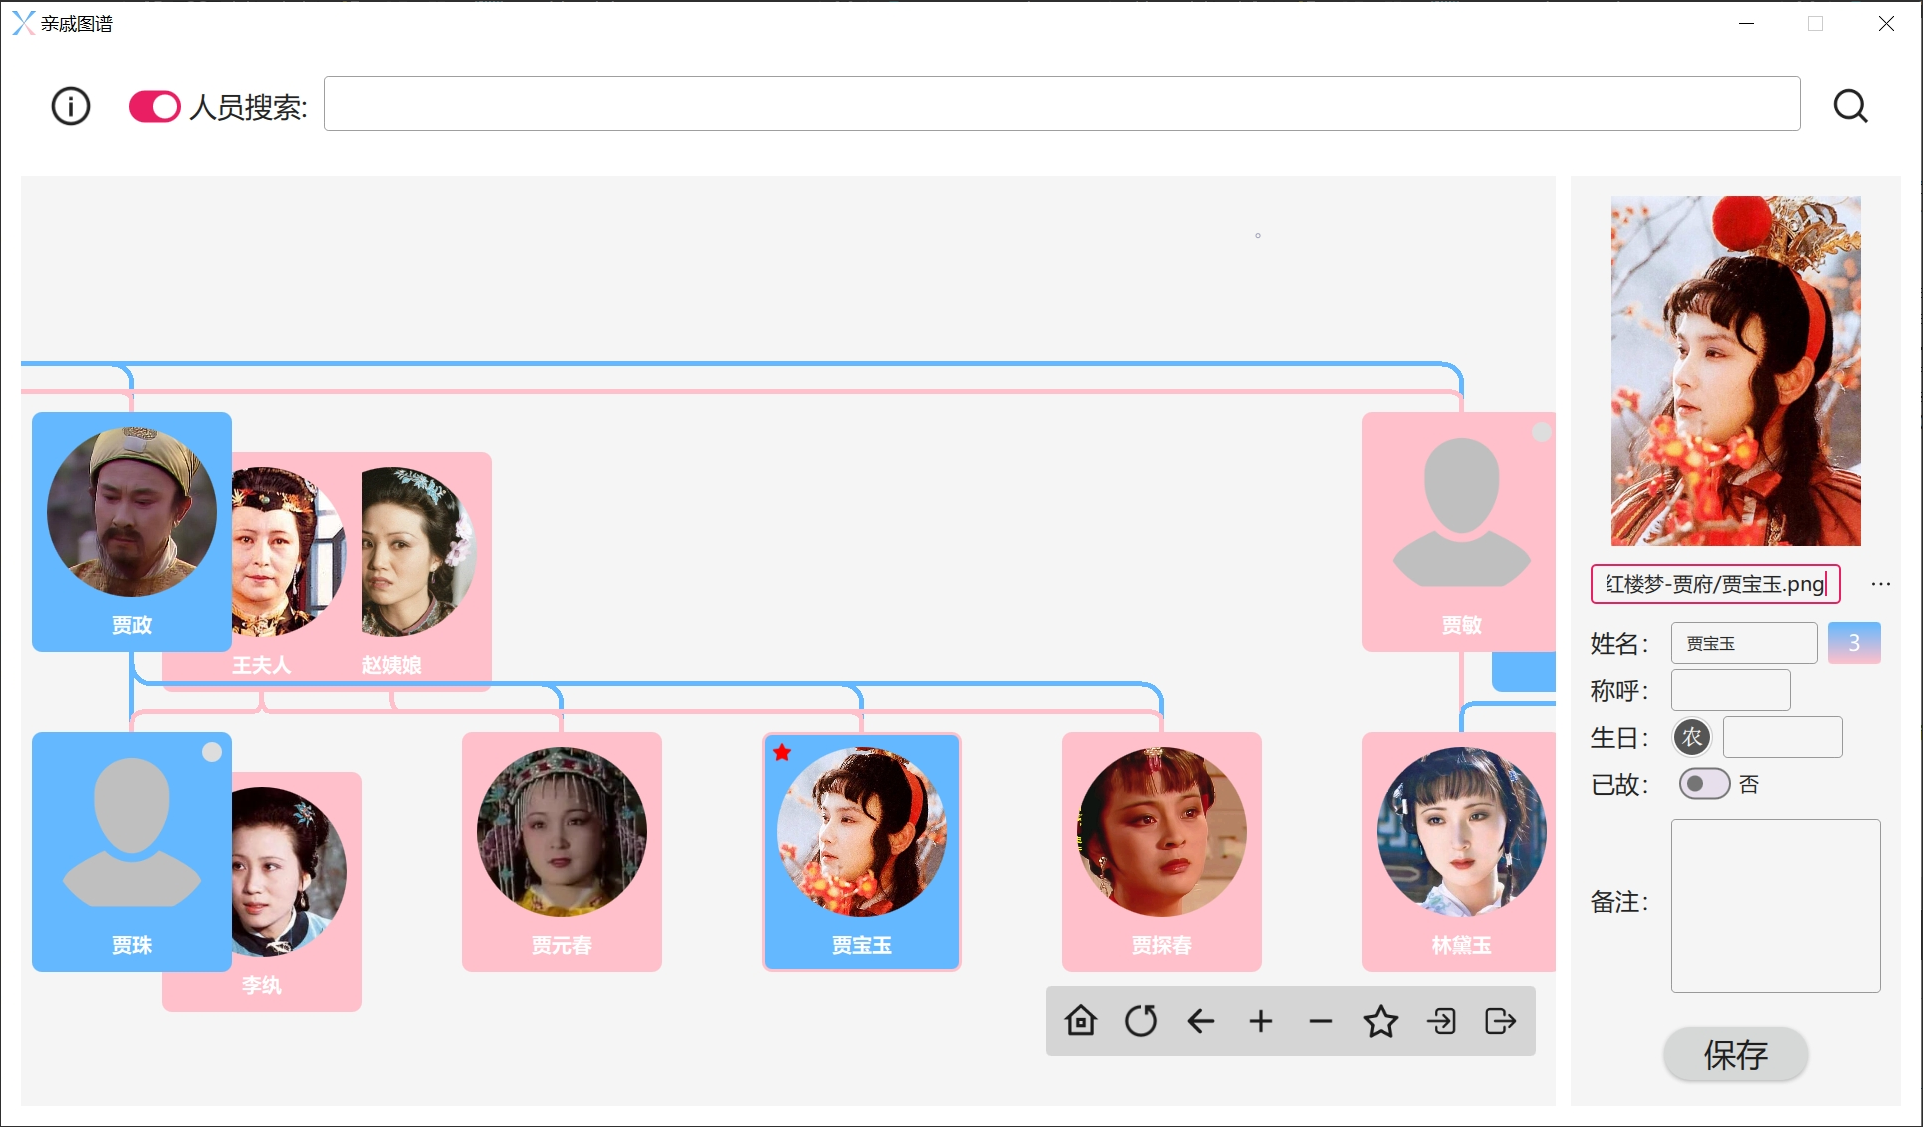
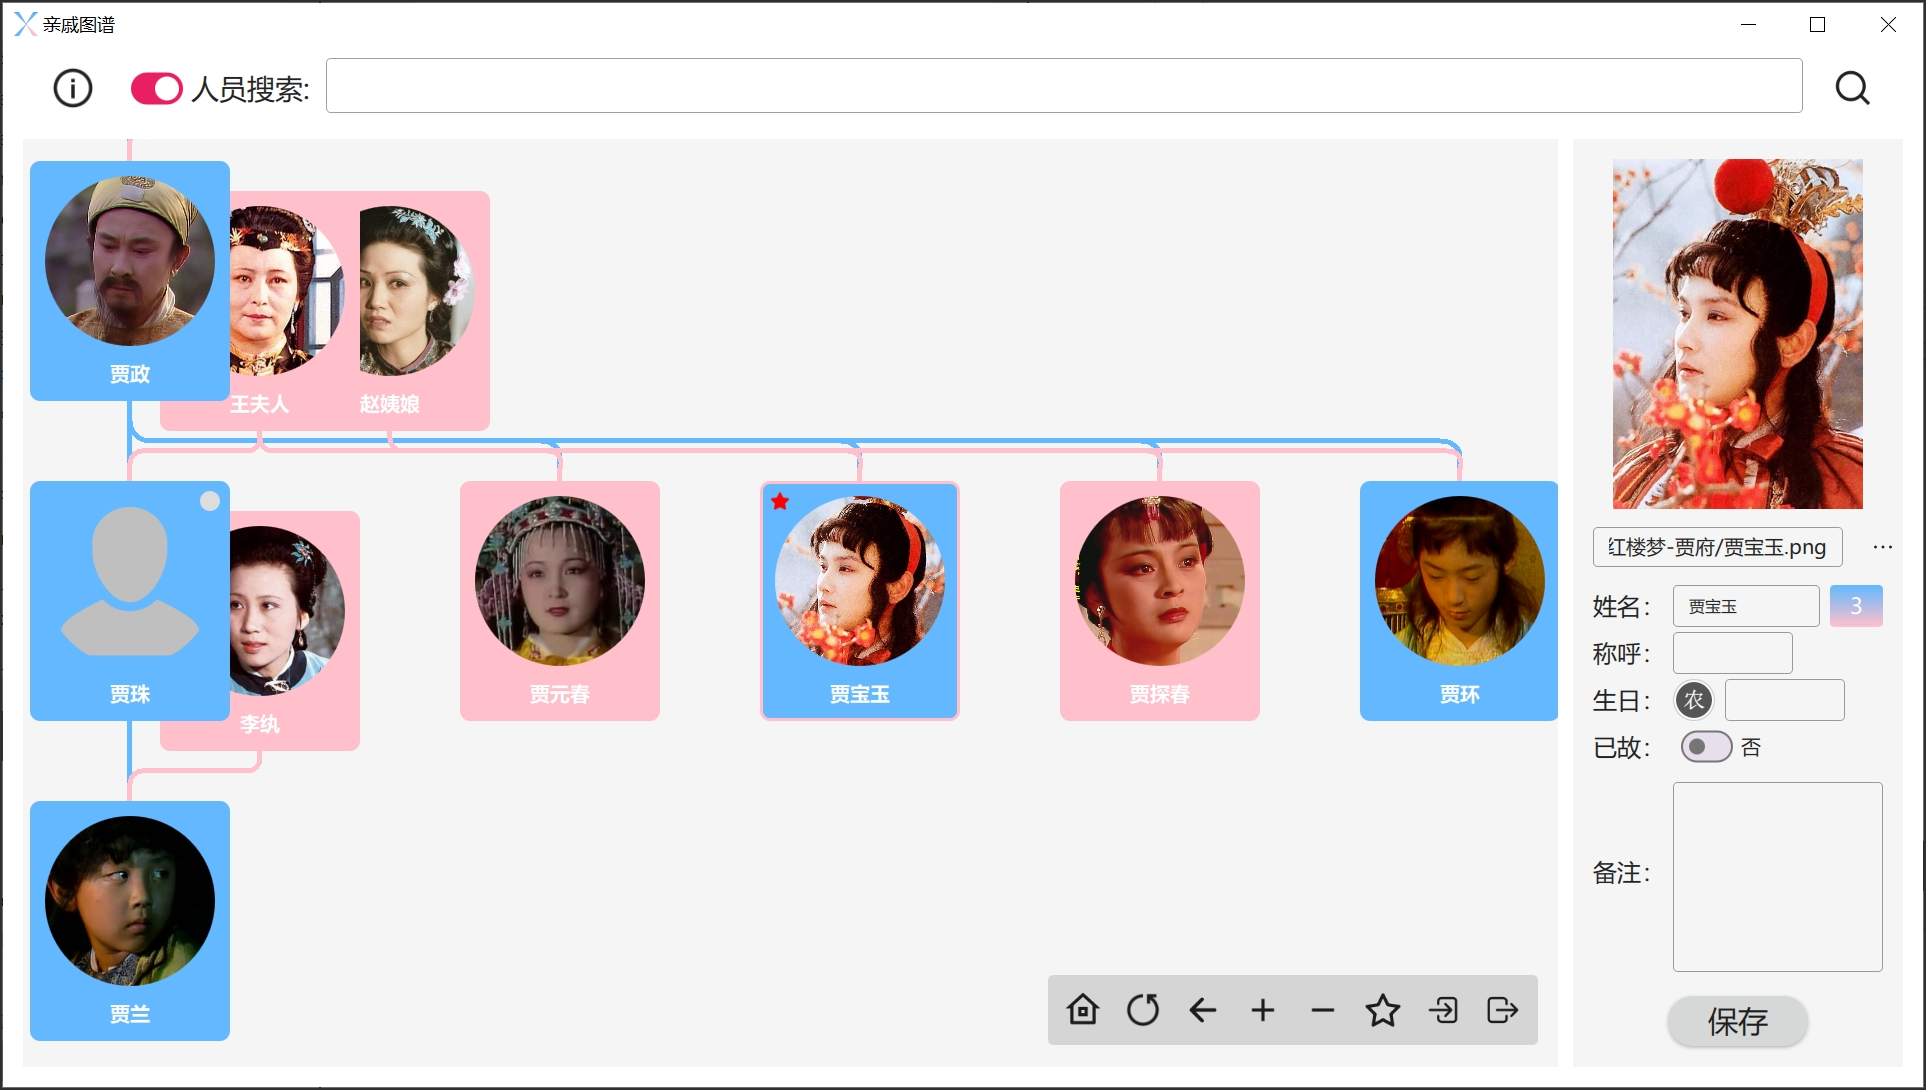
[0.14.4] 1. Remove the flag after saving the information 2. Adjusted the display effect of children's connections 3. The window size can be adjusted by dragging and dropping with the mouse 4. Clear data when switching searchViewSwitch

diff --git a/code/content/MainPageForm.qml b/code/content/MainPageForm.qml
@@ -20,10 +20,9 @@ import easy.qt.FileUtils 0.1
 
 Rectangle {
     id: mainRect
-    // width: Constants.width
-    // height: Constants.height
-    width: 1920
-    height: 1080
+    width: parent.width
+    height: parent.height
+    anchors.centerIn: parent
     color: "#ffffff"
 
     property var selectedPerson: null
@@ -214,6 +213,7 @@ Rectangle {
     ColumnLayout {
         id: mainLayout
         anchors.fill: mainRect
+        anchors.centerIn: mainRect
         // anchors.margins: 20
         anchors.leftMargin: 20
         anchors.rightMargin: 20
@@ -223,8 +223,8 @@ Rectangle {
 
         RowLayout {
             id: headerLayout
-            width: (mainRect.width - 40)
-            height: 140
+            Layout.fillWidth: true
+            Layout.preferredHeight: 80
 
             Row {
                 id: sysToolBar
@@ -273,10 +273,17 @@ Rectangle {
                 font.pointSize: 14
 
                 onCheckedChanged: {
-                    if (checked)
+                    if (checked) {
+                        // startListModel.clear()
+                        // endListModel.clear()
+                        startInput.text = ""
+                        endInput.text = ""
                         searchSwipeView.setCurrentIndex(0)
-                    else
+                    } else {
+                        // resultModel.clear()
+                        searchInput.text = ""
                         searchSwipeView.setCurrentIndex(1)
+                    }
                 }
             }
 
@@ -320,7 +327,7 @@ Rectangle {
                         ListView {
                             id: resultListView
                             parent: mainRect
-                            x: searchSwipeView.x
+                            x: searchSwipeView.x + 20
                             y: searchInput.y + searchInput.height + 5
                             width: 140
                             // height: contentHeight
@@ -408,10 +415,10 @@ Rectangle {
 
                             onTextChanged: {
                                 startListModel.clear()
-                                startListModel.append({
-                                                          "name": "主人公"
-                                                      })
                                 if (text) {
+                                    startListModel.append({
+                                                              "name": "主人公"
+                                                          })
                                     for (var i = 0; i < allPerson.length; i++) {
                                         if (allPerson[i].name.includes(text))
                                             startListModel.append(allPerson[i])
@@ -427,7 +434,7 @@ Rectangle {
                         ListView {
                             id: startListView
                             parent: mainRect
-                            x: searchSwipeView.x + startInput.x
+                            x: searchSwipeView.x + startInput.x + 20
                             y: startInput.y + startInput.height + 5
                             width: 140
                             height: 300
@@ -487,10 +494,10 @@ Rectangle {
 
                             onTextChanged: {
                                 endListModel.clear()
-                                endListModel.append({
-                                                        "name": "主人公"
-                                                    })
                                 if (text) {
+                                    endListModel.append({
+                                                            "name": "主人公"
+                                                        })
                                     for (var i = 0; i < allPerson.length; i++) {
                                         if (allPerson[i].name.includes(text))
                                             endListModel.append(allPerson[i])
@@ -506,7 +513,7 @@ Rectangle {
                         ListView {
                             id: endListView
                             parent: mainRect
-                            x: searchSwipeView.x + endInput.x
+                            x: searchSwipeView.x + endInput.x + 20
                             y: endInput.y + endInput.height + 5
                             width: 140
                             // height: contentHeight
@@ -577,16 +584,16 @@ Rectangle {
 
         RowLayout {
             id: bodyLayout
-            height: 930
+            Layout.fillHeight: true
+            Layout.preferredHeight: 910
             Layout.fillWidth: true
             spacing: 15
 
             Rectangle {
                 id: drawRect
-                width: bodyLayout.width - sideRect.width - 15
-                height: parent.height
-                color: stack.visible ? "#a5a5a5" : "#f5f5f5"
                 Layout.fillWidth: true
+                Layout.fillHeight: true
+                color: stack.visible ? "#a5a5a5" : "#f5f5f5"
                 clip: true
 
                 StartProject {
@@ -665,15 +672,15 @@ Rectangle {
 
             Rectangle {
                 id: sideRect
-                width: 330
-                height: parent.height
+                Layout.preferredWidth: 330
+                Layout.fillHeight: true
                 color: "#f5f5f5"
 
                 ColumnLayout {
                     id: sideLayout
                     anchors.fill: parent
                     width: sideRect.width - 20
-                    height: sideRect.height
+                    Layout.fillHeight: true
                     Layout.alignment: Qt.AlignLeft | Qt.AlignVCenter
                     anchors.margins: 10
 
@@ -1074,14 +1081,13 @@ Rectangle {
                     Button {
                         id: btSaveInfo
                         text: qsTr("保存")
-                        Layout.bottomMargin: 10
-                        Layout.topMargin: 10
+                        Layout.bottomMargin: 5
                         bottomPadding: 12
                         topPadding: 12
                         rightPadding: 40
                         leftPadding: 40
                         Layout.alignment: Qt.AlignHCenter | Qt.AlignVCenter
-                        font.pointSize: 16
+                        font.pointSize: 15
                         property var unsavedList: [0, 0, 0, 0, 0, 0, 0, 0, 0]
                         property bool unsavedFlag: false
 
@@ -1116,6 +1122,7 @@ Rectangle {
                                         savePi.death = textDeath.text
                                 }
                                 pdb.updatePerson(savePi.id)
+                                unsavedFlag = false
                             }
                         }
                     }
@@ -1224,7 +1231,7 @@ Rectangle {
         radius: 5
         border.width: 0
         x: drawRect.x + drawRect.width - subToolRect.width
-        y: drawRect.y + drawRect.height + 10
+        y: drawRect.y + drawRect.height
 
         Row {
             id: subToolBar
@@ -1291,7 +1298,6 @@ Rectangle {
                 ToolTip.visible: hovered
 
                 onClicked: {
-                    console.log("btBack")
                     stack.pop()
                     stack.currentItem.restoreLastPos()
                     setSidePerson(stack.currentItem.mainPF)
@@ -1595,6 +1601,12 @@ Rectangle {
                        }, StackView.PushTransition)
         }
     }
+
+    // Component.onCompleted: {
+    //     console.log(mainLayout.width, mainLayout.height)
+    //     console.log(headerLayout.width, headerLayout.height)
+    //     console.log(bodyLayout.width, bodyLayout.height)
+    // }
 
     Component.onDestruction: {
         selectedPerson = null

diff --git a/code/content/Connections.qml b/code/content/Connections.qml
@@ -4,6 +4,7 @@ import QtQuick.Shapes 1.2
 Shape {
     id: thisPage
     objectName: "CT"
+    antialiasing: true
     property var node1: null
     property var node1x: node1 ? node1.x : 0
     property var node1y: node1 ? node1.y : 0
@@ -91,9 +92,11 @@ Shape {
             if (sp.w !== 0 && sp.h !== 0) {
                 radius = sp.w < sp.h ? (sp.w / 4) : (sp.h / 4)
                 line1.x = sp.startX
-                line1.y = sp.startY + (sp.h - radius * 2) / 2
-                if (node1.gender)
-                    line1.y -= 8
+                // line1.y = sp.startY + (sp.h - radius * 2) / 2
+                if (sp.h === 80)
+                    line1.y = sp.startY + 40 - radius
+                else
+                    line1.y = sp.startY + 20 - radius
                 line1.relativeY = line1.y - sp.startY
                 arc1.radiusX = radius
                 arc1.radiusY = radius

diff --git a/code/content/LoadByBlood.js b/code/content/LoadByBlood.js
@@ -167,12 +167,12 @@ function calculatePosition(load) {
     }
     if (type === connectType.MATE) {
         load["posX"] = p1.x + mateShiftX
-        load["posY"] = p1.y + 40
+        load["posY"] = p1.y + 30
     }
     if (type === connectType.EX) {
         let xPos = index * mateShiftX + mateShiftX
         load["posX"] = p1.x + xPos
-        load["posY"] = p1.y + 40
+        load["posY"] = p1.y + 30
     }
     if (type === connectType.CHILDREN) {
         let xPos = index * 300

diff --git a/code/content/ChildrenSorting.qml b/code/content/ChildrenSorting.qml
@@ -343,8 +343,10 @@ Rectangle {
                 }
 
                 onClicked: {
-                    if (unsavedFlag)
+                    if (unsavedFlag) {
                         saveData()
+                        unsavedFlag = false
+                    }
                     thisPage.finished(unsavedFlag)
                     thisPage.destroy()
                 }

diff --git a/code/content/HelpInfo.qml b/code/content/HelpInfo.qml
@@ -36,7 +36,7 @@ Rectangle {
         }
 
         TextArea {
-            text: "* Author: Easy Wang\r\n* Version: 0.14.3\r\n* Based: QtQuick 6.2"
+            text: "* Author: Easy Wang\r\n* Version: 0.14.4\r\n* Based: QtQuick 6.2"
             wrapMode: Text.Wrap
             Layout.fillHeight: false
             Layout.alignment: Qt.AlignHCenter | Qt.AlignVCenter

diff --git a/code/content/App.qml b/code/content/App.qml
@@ -7,11 +7,11 @@ import KinshipDiagramEditor
 
 Window {
     width: 1920
-    height: 1080
-    minimumWidth: 1920
-    maximumWidth: 1920
-    minimumHeight: 1080
-    maximumHeight: 1080
+    height: 1040
+    minimumWidth: 1280
+    minimumHeight: 900
+    // maximumWidth: 2560
+    // maximumHeight: 1440
 
     visible: true
     title: "亲戚图谱"

diff --git a/docs/ToDo.md b/docs/ToDo.md
@@ -25,20 +25,21 @@
 21. 新建之后，可能在当前页面不会显示，让人觉得没有新建成功。
 22. 路径：从某人（主人公、临时主人公）到某人。
 23. 使用 visible 控制子窗口的显示，有**鼠标穿透**，父页面还可以操作的问题。
-25. **连线显示效果间隔不一致，多婚姻时，子女的连线区分不开**
-26. **设置**：
+24. **连线显示效果间隔不一致，多婚姻时，子女的连线区分不开**
+25. **设置**：
     1. 语言切换：中文/英文
     1. 保存照片默认后缀，JPEG（压缩率）/PNG
     1. 古代/现代：妻/妾 or 妻/Ex
-27. **反馈建议**（1.0版本之前添加，在此志强通过开发者通道反馈）
+26. **反馈建议**（1.0版本之前添加，在此志强通过开发者通道反馈）
     1. 信息 + 打赏页
     2. 用户指南页（包含常见问题）
     3. 我要反馈页（类型：有点儿问题、改进意见、添加功能）
-28. **屏幕自适应**
-29. **测试**
-31. **发布**
-32. 无图模式：为书籍中的名字制作族谱
-33. 日志处理，打印隐藏
+27. 屏幕自适应：不同分辨率/DPI
+28. **测试**
+29. **发布**
+30. 无图模式：为书籍中的名字制作族谱
+31. 日志处理，打印隐藏
+32. 选中某人后，点亮有关的关系线
 
 
 
@@ -59,7 +60,7 @@
   qml: Add Person failed.
   ```
 
-* 
+* 关联子女时，要检查子女是否已经有父/母了。
 
 
 
@@ -70,8 +71,10 @@
 
 ## commit
 
-[0.14.3]
+[0.14.4]
 
-1. 增加侧边栏人员信息修改检查标识
-1. 增加兄弟排序修改检查标识，排序操作优化
+1. 保存信息后消除标志
+1. 调整了子女连线的显示效果
+1. 可以通过鼠标拖拽调整窗口大小
+1. searchViewSwitch 切换时清除数据
 
